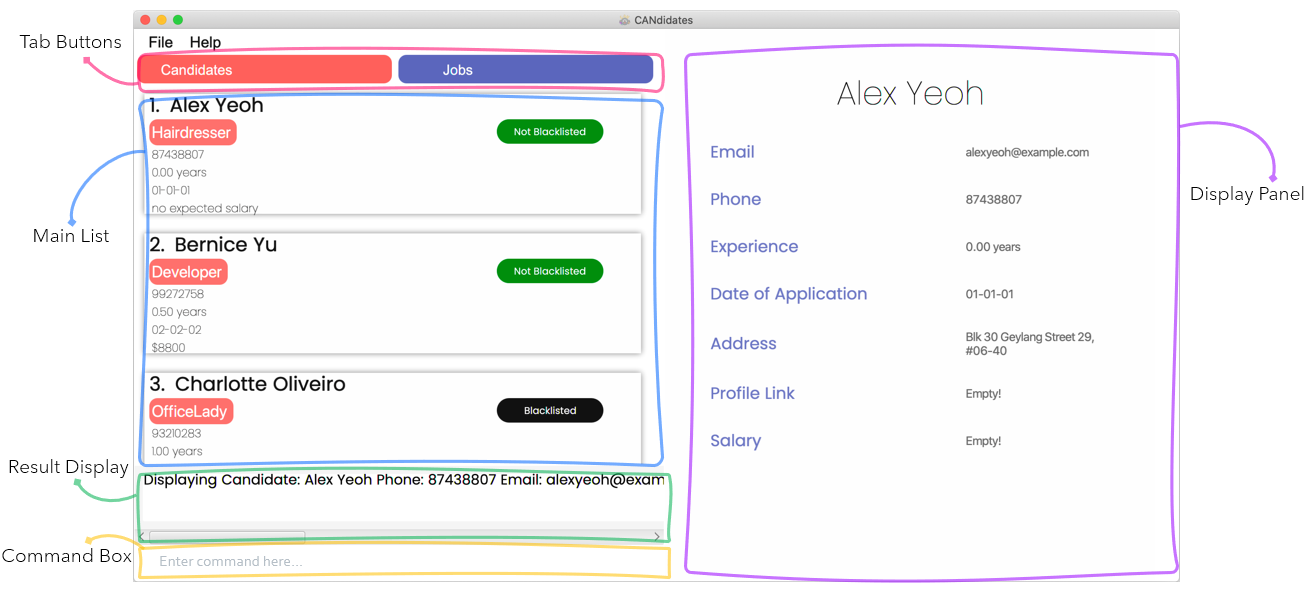
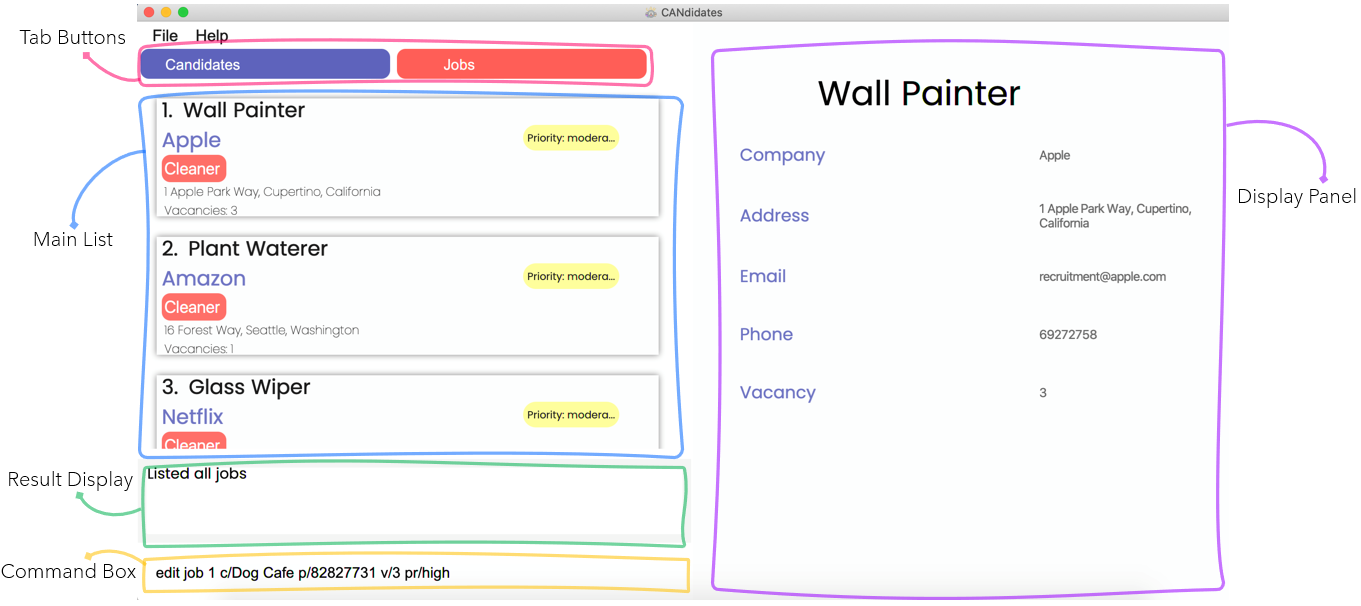
Update the Understanding GUI section for UG

diff --git a/docs/UserGuide.md b/docs/UserGuide.md
@@ -59,12 +59,15 @@ The figure below shows an annotated version of the GUI, to help you in understan
 
 ![Annotated GUI](images/UnderstandingGUI.png)
 
-:memo: *In the Tab Buttons, the tab you are currently on is marked as **red**. i.e. "Candidates" button is in red as the list shows the list of candidates.*
-<br>
-:memo: *The application window currently does not support resizing.*
-<br/>
+<div markdown="span" class="alert alert-primary">
 
+:memo: *In the Tab Buttons, the tab you are currently on is marked as red. i.e. "Jobs" button is in red as the list currently shows the list of jobs.*
+<br>
+:memo: *The current application window does not support resizing.*
+<br>
 :bulb: *The display panel is scrollable! Keep this tip in mind so that you do not miss out on any information!*
+
+</div>
 
 You may refer back to this section whenever you need help understanding the GUI terms.
 
